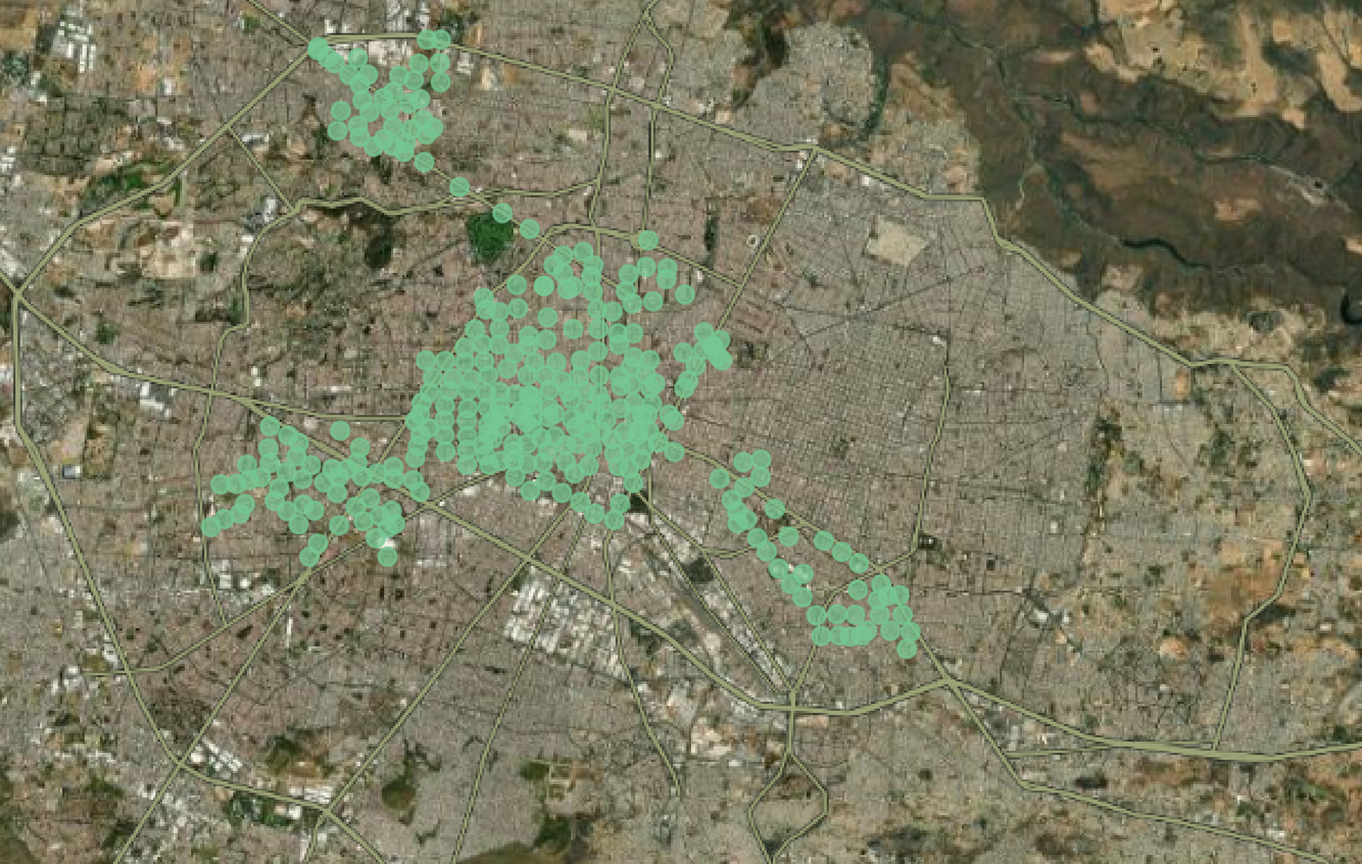
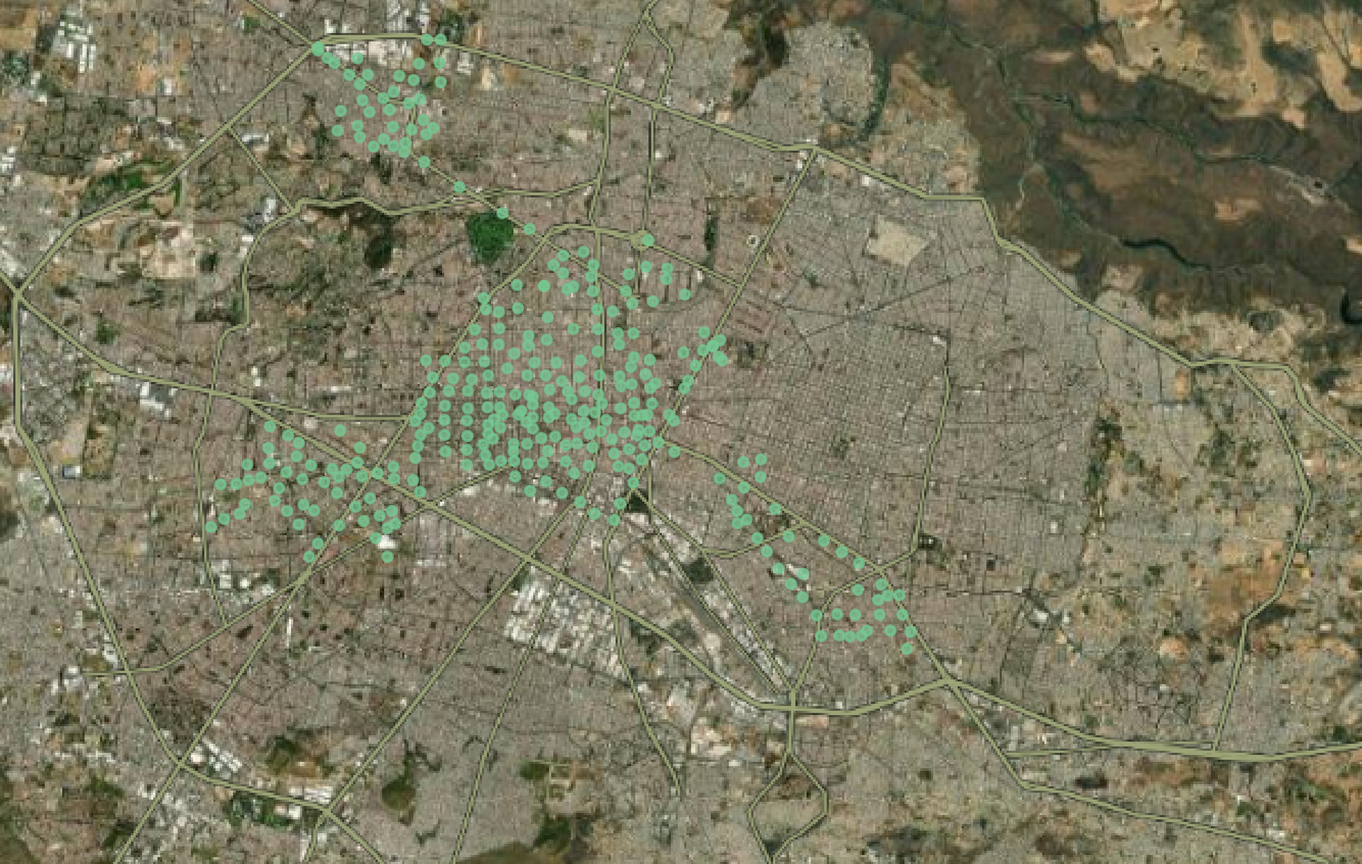
Change scatter size

diff --git a/Scripts/Graph_map.py b/Scripts/Graph_map.py
@@ -29,7 +29,8 @@ plt.axis("off")
 plt.scatter(stations_data["longitude"],
             stations_data["latitude"],
             alpha=0.7,
-            c="#76c893")
+            c="#76c893",
+            s=10)
 # Plot del mapa
 plt.imshow(map.img,
            origin="lower")
